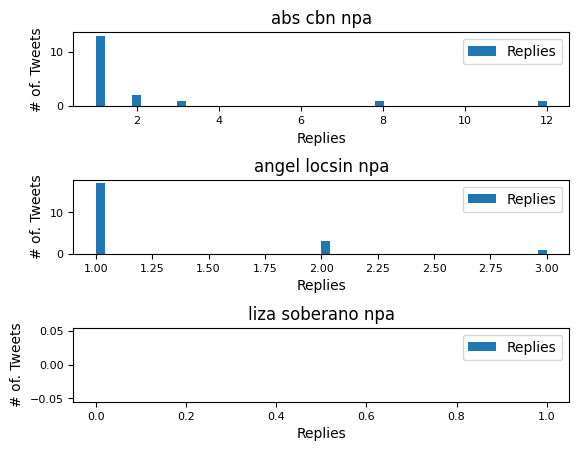
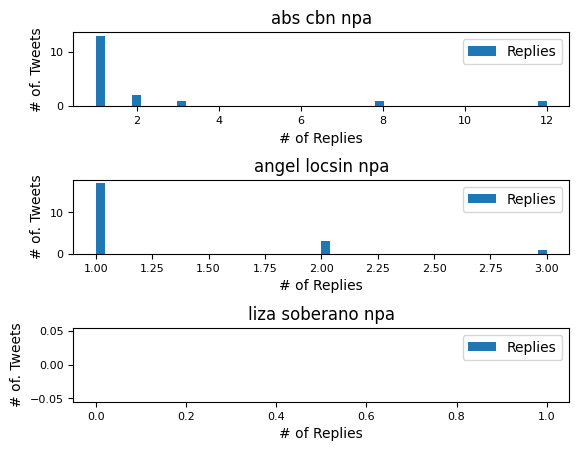
Update graphs and indicate lz no replies

Changed region(s): [[0.4663, 0.9313, 0.6218, 0.9933], [0.4663, 0.2794, 0.6218, 0.3415], [0.4663, 0.6208, 0.6218, 0.6519]]

diff --git a/data.html b/data.html
@@ -252,7 +252,7 @@
 				</div>
 				
 				<div class="img-caption">
-					<p class="data-p" align="justify">Visually inspecting these histograms shows that majority of nonzero `Likes` lie in the range `[1, 6]`. For `Replies`, this is a much smaller range of `[1, 3]`. Moving forward, we're careful of using sum and total aggregates when dealing with engagement.</p>
+					<p class="data-p" align="justify">Visually inspecting these histograms shows that majority of nonzero `Likes` lie in the range `[1, 6]`. For `Replies`, this is a much smaller range of `[1, 3]`. Moving forward, we're careful of using sum and total aggregates when dealing with engagement. Note that no scraped "liza soberano npa" tweets had replies.</p>
 				</div>
 
 				<div class="img-container">
